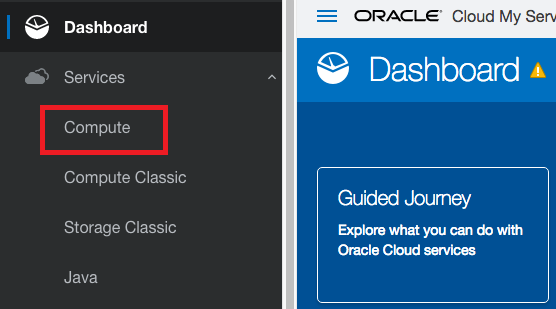
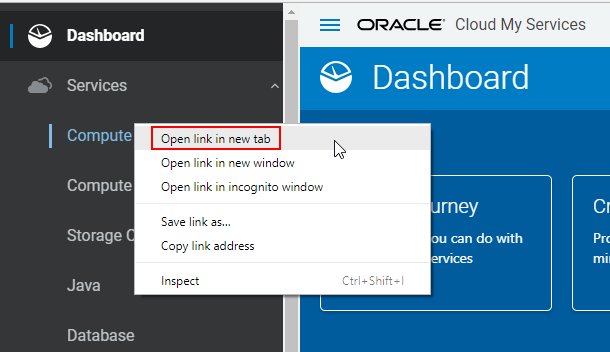
updates

diff --git a/workshops/devcs-mysql/Lab100.md b/workshops/devcs-mysql/Lab100.md
@@ -89,7 +89,7 @@ Compartments are used to isolate resources within your OCI tenant. User-based ac
 
   ![](images/100/3.png)
 
-- Click to expand the **Services** submenu, then click **Compute**
+- Click to expand the **Services** submenu, then right-click **Compute** to open in another tab
 
   ![](images/100/4.png)
 
@@ -103,51 +103,53 @@ Compartments are used to isolate resources within your OCI tenant. User-based ac
 
     ![](images/100/7.png)
 
-  - In the **Name** field, enter any name you want. For this example we will be using the name `Demo` going forward. Enter a **Description** of your choice. Click **Create Compartment**.
+  - In the **Name** field, enter any name you want. For this example we will be using the name `MYSQL` going forward. Enter a **Description** of your choice. Click **Create Compartment**.
 
     ![](images/100/8.png)
 
-    ![](images/100/8-2.PNG)
-
-  - In a moment, your new Compartment will show up in the list. We will use it next to create components in.
+  - In a moment, your new Compartment will show up in the list. We use it next to create components in.
 
     ![](images/100/9.PNG)
 
+  - Save off your `OCID` of the new compartment by clicking the **Copy** link. Paste this into a text editor of your choice as we will be referencing this later on in the labs.
+
+    ![](images/100/9-2.PNG)
+
 ### **STEP 4**: Create a Virtual Compute Network
 
-We need a default VCN to define our networking within the `Demo` compartment (_Or the name you used for your compartment_). This is where Subnets and Security Lists, to name a couple get defined for each Availablity Domains in your Tenancy. Oracle Cloud Infrastructure is hosted in regions and availability domains. A region is a localized geographic area, and an availability domain is one or more data centers located within a region. A region is composed of several availability domains. Availability domains are isolated from each other, fault tolerant, and very unlikely to fail simultaneously. Because availability domains do not share infrastructure such as power or cooling, or the internal availability domain network, a failure at one availability domain is unlikely to impact the availability of the others.
+We need a default VCN to define our networking within the `MYSQL` compartment (_Or the name you used for your compartment_). This is where Subnets and Security Lists (access rules) get defined for each Availablity Domain in your Tenancy. Oracle Cloud Infrastructure is hosted in regions and availability domains. A region is a localized geographic area, and an availability domain is one or more data centers located within a region. A region is composed of several availability domains. Availability domains are isolated from each other, fault tolerant, and very unlikely to fail simultaneously. Because availability domains do not share infrastructure such as power or cooling, or the internal availability domain network, a failure at one availability domain is unlikely to impact the availability of the others.
 
 All the availability domains in a region are connected to each other by a low latency, high bandwidth network, which makes it possible for you to provide high-availability connectivity to the Internet and customer premises, and to build replicated systems in multiple availability domains for both high-availability and disaster recovery.
 
 - Click the **hamburger icon** in the upper left corner to open the navigation menu. Under the **Network** section of the menu, click **Virtual Cloud Networks**
 
-    ![](images/050Linux/10.PNG)
+    ![](images/100/10.PNG)
     
 - Select your compartment from the LOV.
     
-    ![](images/050Linux/10a.png)
+    ![](images/100/10a.png)
 
 - Click **Create Virtual Cloud Network**
 
-    ![](images/050Linux/11.PNG)
+    ![](images/100/11.PNG)
 
 - Fill in the follow values as highlighted below:
 
-    **NOTE:** Make sure to de-select the "USE DNS HOSTNAMES IN THIS VCN" checkbox)
+    **NOTE:** Make sure to **de-select** the `USE DNS HOSTNAMES IN THIS VCN` checkbox)
 
-    ![](images/050Linux/12.PNG)
+    ![](images/100/12.PNG)
 
-    ![](images/050Linux/13.PNG)
+    ![](images/100/13.PNG)
 
 - Click **Create Virtual Cloud Network**
 
 - Click **Close** on the details page:
 
-    ![](images/050Linux/14.PNG)
+    ![](images/100/14.PNG)
 
 - You will see:
 
-    ![](images/050Linux/15.PNG)
+    ![](images/100/15.PNG)
 
 ### **STEP 5**: Add a Security List entry
 
